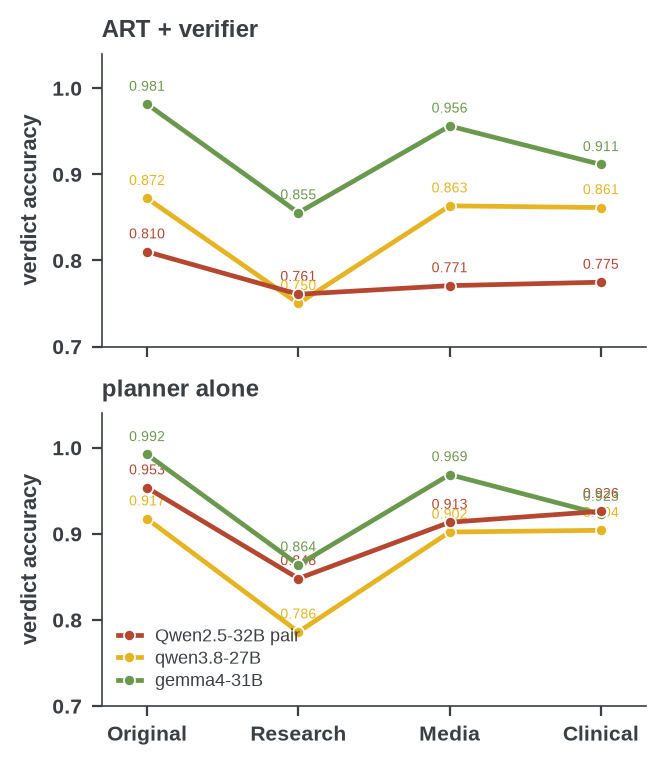
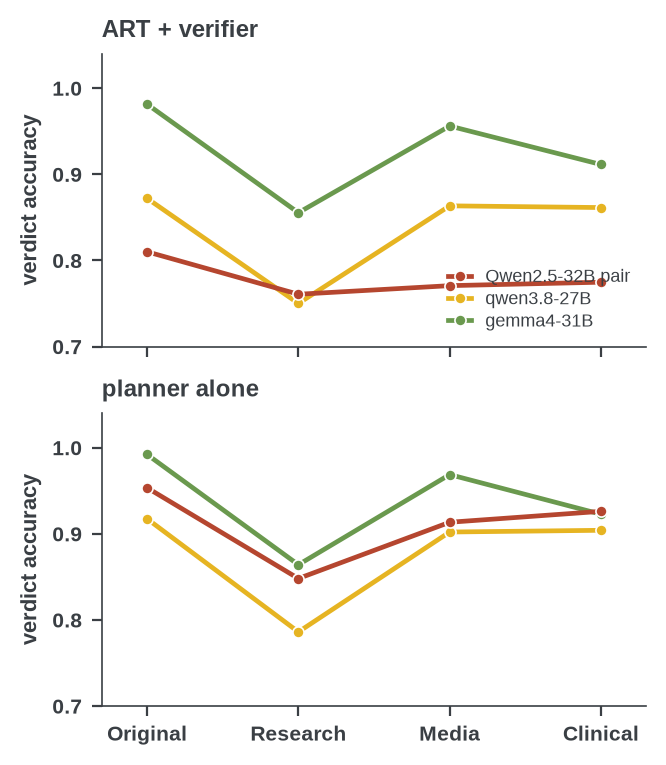
Register figure without point labels; paraphrase paragraph corrected against the numbers

diff --git a/docs/draft/body.tex b/docs/draft/body.tex
@@ -1011,11 +1011,14 @@ single-report claims.}
 registers (research, media, clinical), and the case study reruns the three
 open models on all of them (Figure~\ref{fig:registers}). The research
 register costs the most, 0.05 to 0.13 of accuracy, the media and clinical
-registers far less, and the planner alone loses almost exactly what the full
-pipeline loses: the cost of paraphrase is paid at planning and passes through
-the contract unchanged. The ranking of the models does not change in any
-register. The registers are templated; free paraphrase and the frontier
-models are left to future work.
+registers less (at most 0.07). For the 2026 models the planner alone loses
+almost exactly what the full pipeline loses, so the cost of paraphrase is
+paid at planning and passes through the contract unchanged; the 2024 pair's
+pipeline loses less than its planner, because its retrieval stage rather than
+its plan is the bottleneck. gemma4 stays ahead in every register, while
+qwen3.8 and the pair swap places on the research register, where qwen3.8's
+planner loses most. The registers are templated; free paraphrase and the
+frontier models are left to future work.
 
 \iffalse  % registers table kept in source; Figure~\ref{fig:registers} carries it (user 2026-10-20)
 \begin{table}[t]

diff --git a/scripts/paper_figures.py b/scripts/paper_figures.py
@@ -274,15 +274,13 @@ def fig_registers():
         for j, (key, label) in enumerate(models):
             y = series(key, suf)
             ax.plot(x, y, color=cols[j], lw=1.7, marker="o", ms=4, markeredgecolor="white", markeredgewidth=0.6, label=label, zorder=5 - j)
-            for xi, v in zip(x, y):
-                ax.text(xi, v + 0.012, f"{v:.3f}", fontsize=5.2, color=cols[j], ha="center", va="bottom")
         ax.set_xticks(x); ax.set_xticklabels(regs)
         ax.set_xlim(-0.3, 3.3); ax.set_ylim(0.7, 1.04)
         ax.set_title(title, loc="left", fontsize=8.5)
         ax.set_ylabel("verdict accuracy", fontsize=8)
         boldify(ax, size=7.5)
         ax.grid(axis="y")
-    axes[1].legend(frameon=False, fontsize=6.4, loc="lower left", ncol=1, handlelength=1.3, labelspacing=0.3)
+    axes[0].legend(frameon=False, fontsize=6.4, loc="lower right", ncol=1, handlelength=1.3, labelspacing=0.3)
     fig.tight_layout(h_pad=0.8)
     save(fig, "registers")
 
